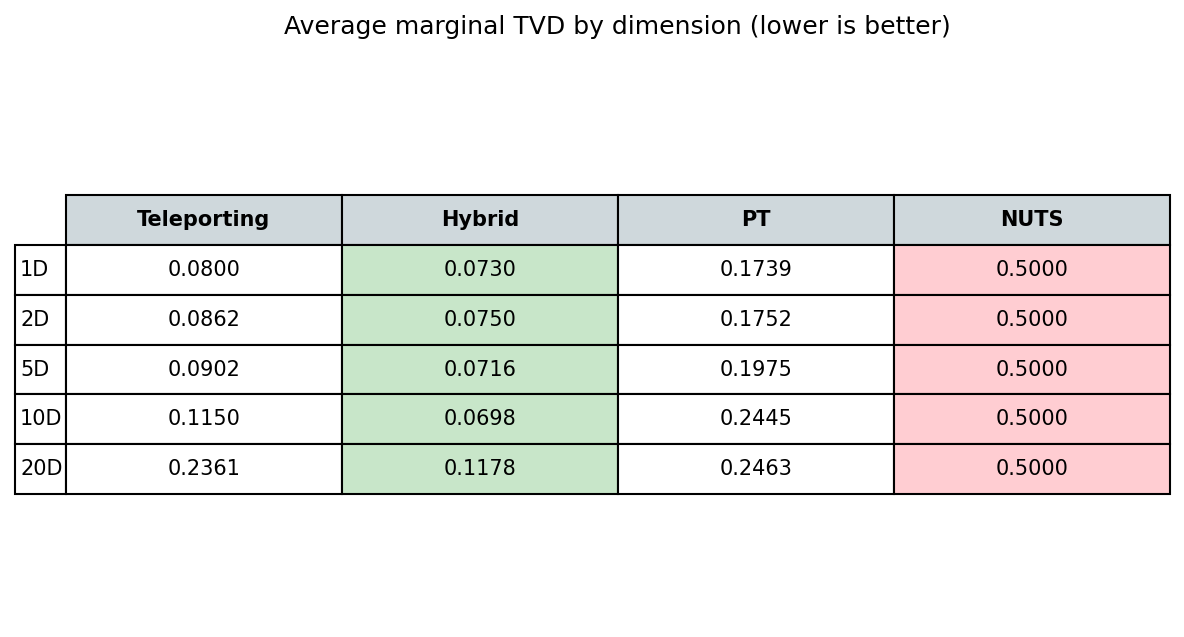
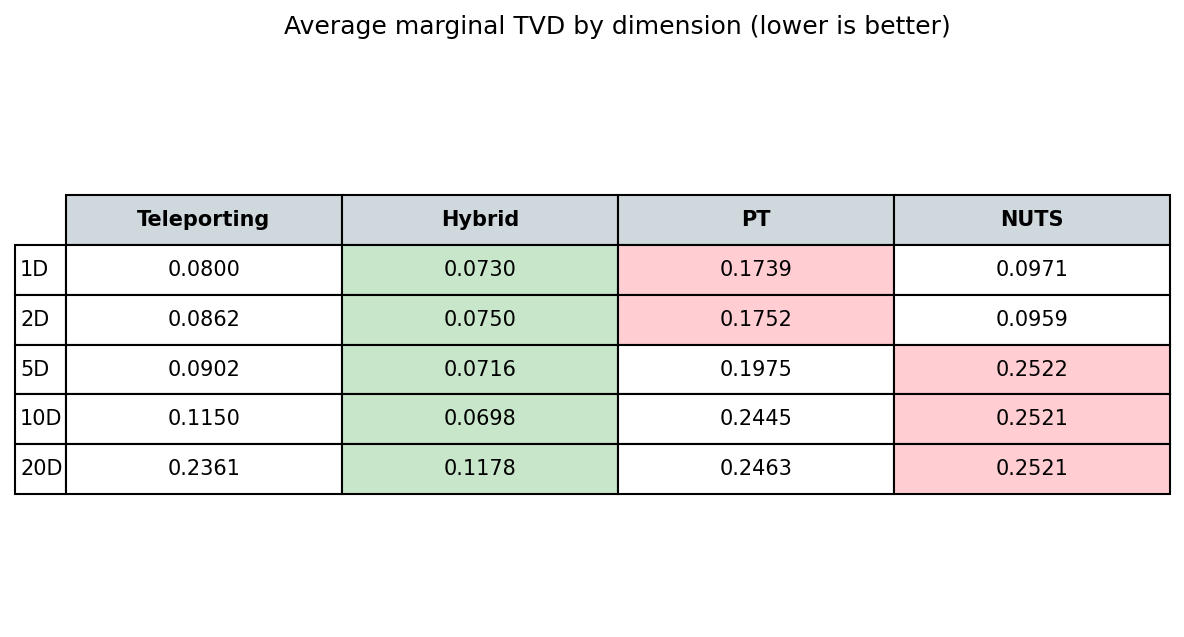
Use dispersed NUTS starts for scaling experiment

Changed region(s): [[0.5, 0.3878, 1.0, 0.5965], [0.8438, 0.6264, 0.9062, 0.686], [0.8438, 0.7159, 0.9062, 0.7457]]

diff --git a/scripts/dimension_scaling.py b/scripts/dimension_scaling.py
@@ -99,14 +99,21 @@ def run_vanilla_nuts(dim, num_iter, warmup):
             "x",
             logp=logp,
             shape=dim,
-            initval=np.full(dim, -MODE_SEPARATION),
+            initval=np.zeros(dim),
         )
+
+        init_rng = np.random.default_rng(SEED + dim)
+        initvals = [
+            {"x": init_rng.normal(loc=0.0, scale=6.0, size=dim)}
+            for _ in range(4)
+        ]
 
         trace = pm.sample(
             draws=num_iter,
             tune=warmup,
             chains=4,
             cores=1,
+            initvals=initvals,
             random_seed=SEED,
             progressbar=False,
             compute_convergence_checks=False,
